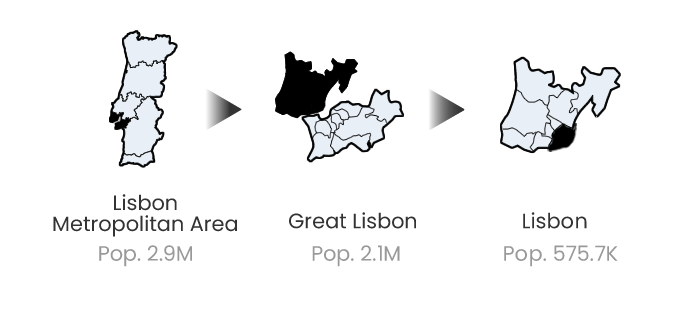
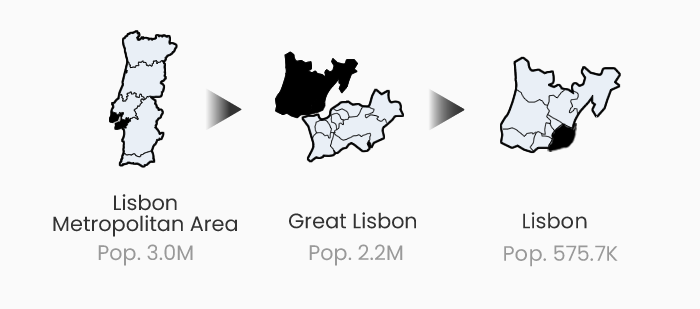
Switched Lisboa ref map images and added deactivation flag

Changed region(s): [[0.42, 0.7864, 0.6, 0.8447], [0.12, 0.7864, 0.27, 0.8447]]

diff --git a/src/components/FlexLayout/index.jsx b/src/components/FlexLayout/index.jsx
@@ -84,6 +84,8 @@ const FlexLayout = ({
     });
   }, [layout, views, view]);
 
+  console.log('Elemnent Array', elementArray);
+
   
   return (
     <div
@@ -106,11 +108,13 @@ const FlexLayout = ({
         />
       )}
       <div className='flex-layout' style={handleStyle(isColumns, viewType)}>
-        {elementArray?.map((element, i) => (
+        {elementArray
+        ?.map((element, i) => (
           <FlexLayoutElement
             key={`flex-layout-el-${i}-${view?.key}`}
             view={view}
             data={data}
+            deactivated={element.deactivated}
             project={project}
             layout={element}
             setter={handleSetter}

diff --git a/src/components/FlexLayoutElement/index.jsx b/src/components/FlexLayoutElement/index.jsx
@@ -47,7 +47,7 @@ const FlexLayoutElement = ({
   scrollRef,
   recursive,
   firstRecursive,
-  manifest
+  manifest,
 }) => {
   const {
     columns,
@@ -87,6 +87,7 @@ const FlexLayoutElement = ({
   }, [viewLoaded]);
 
   return (
+    !content?.deactivated && 
     <div
       ref={elementRef}
       id={scrollRef}
